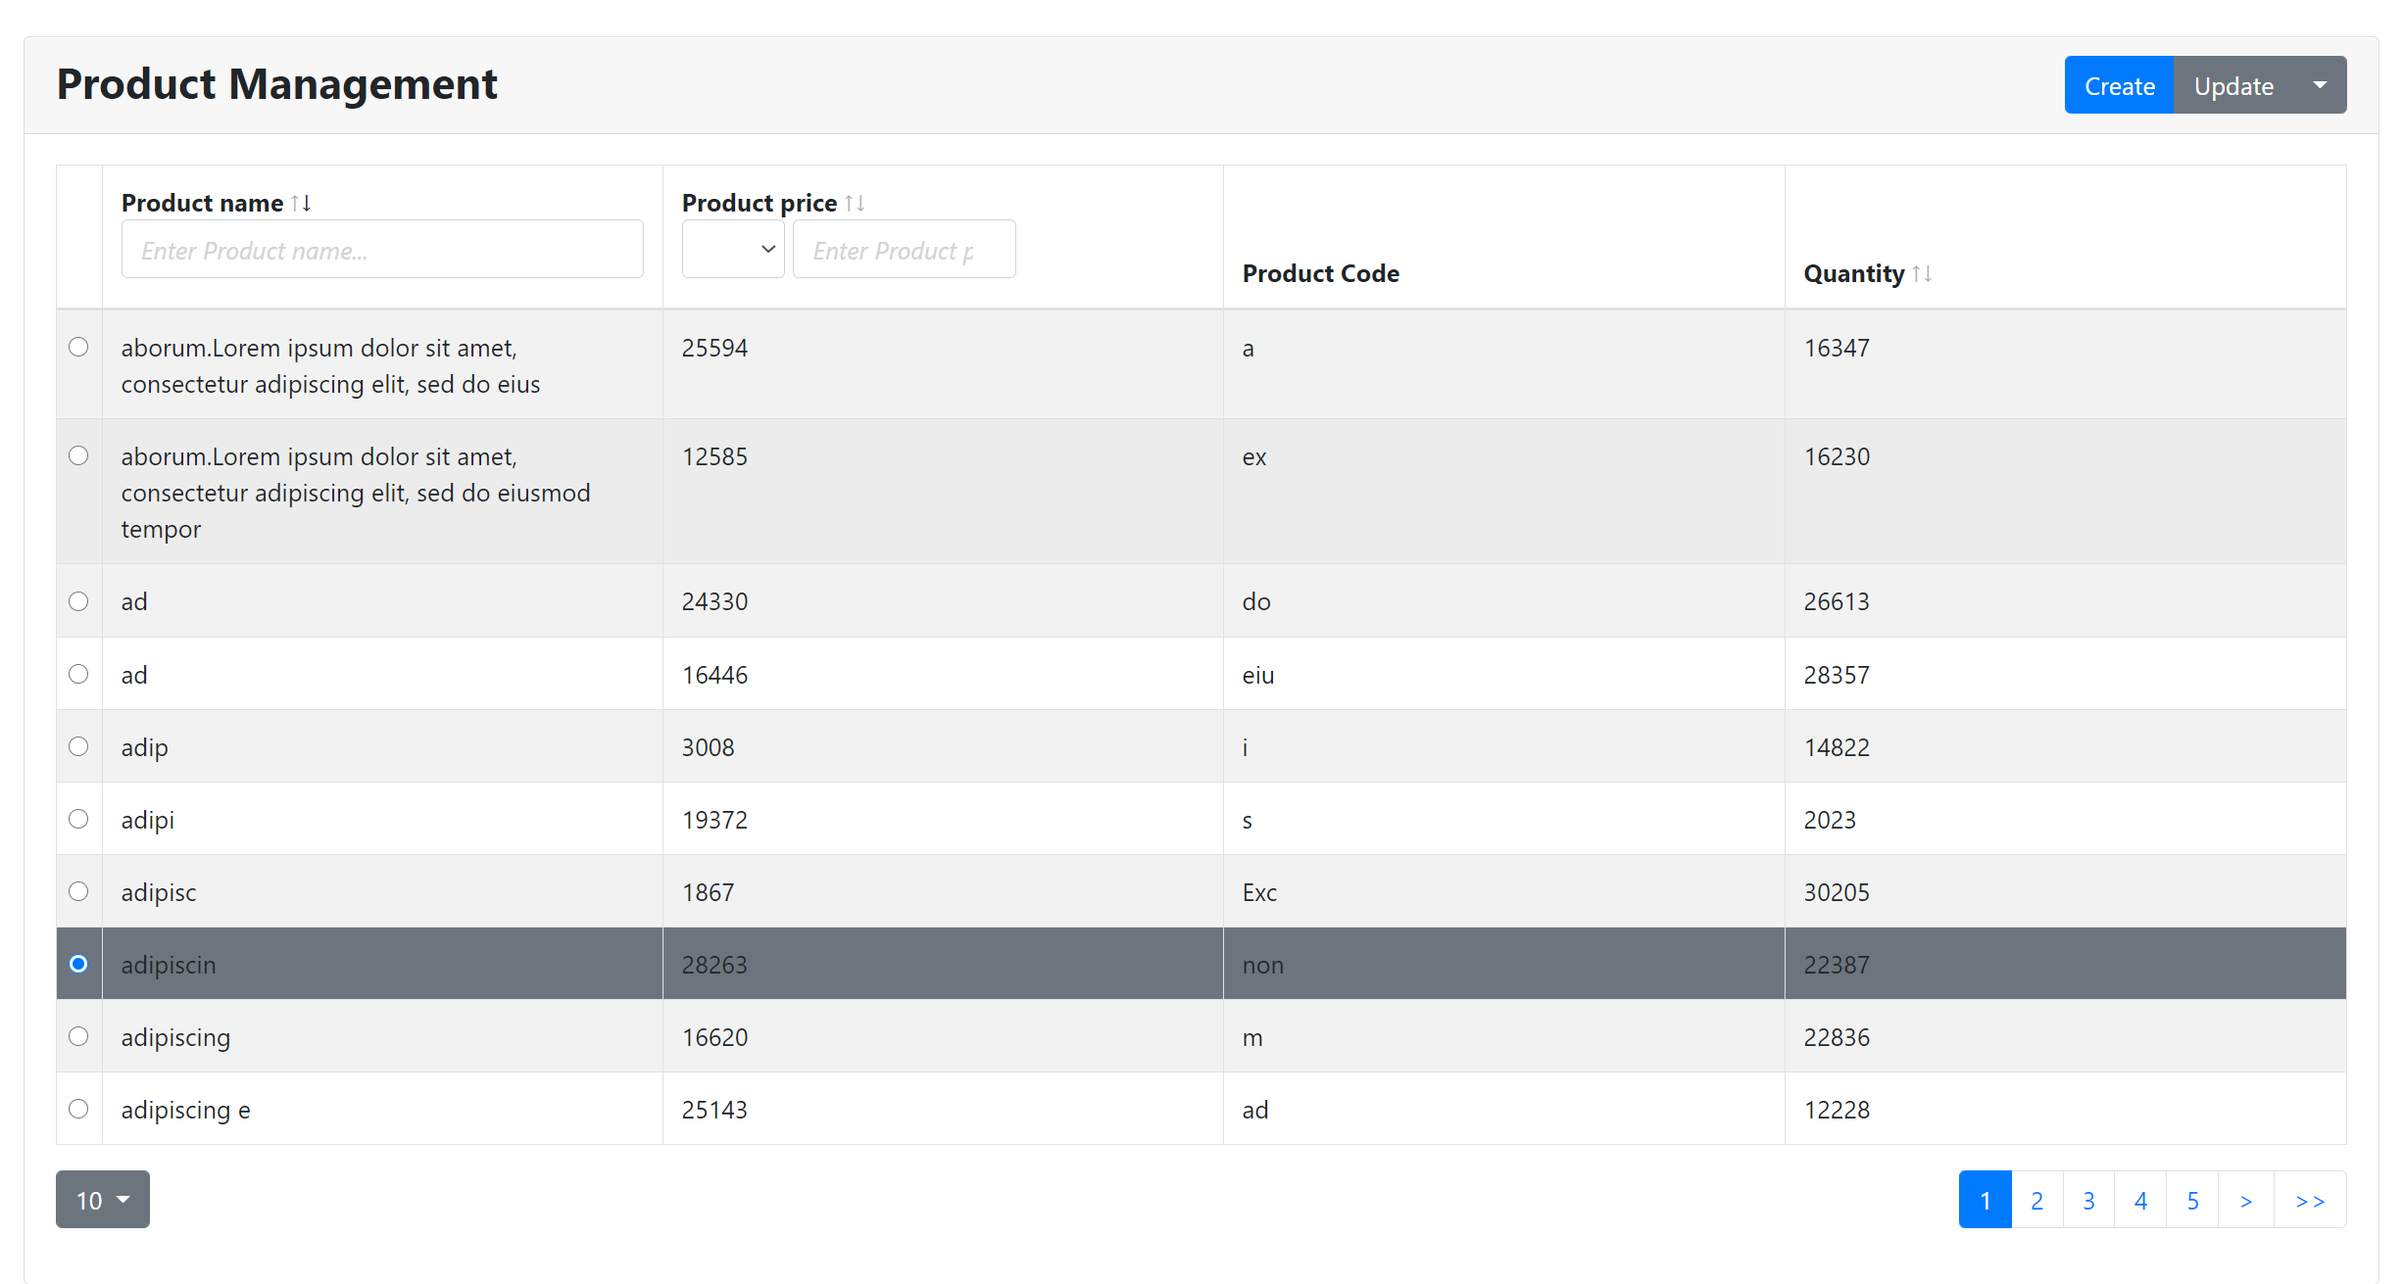
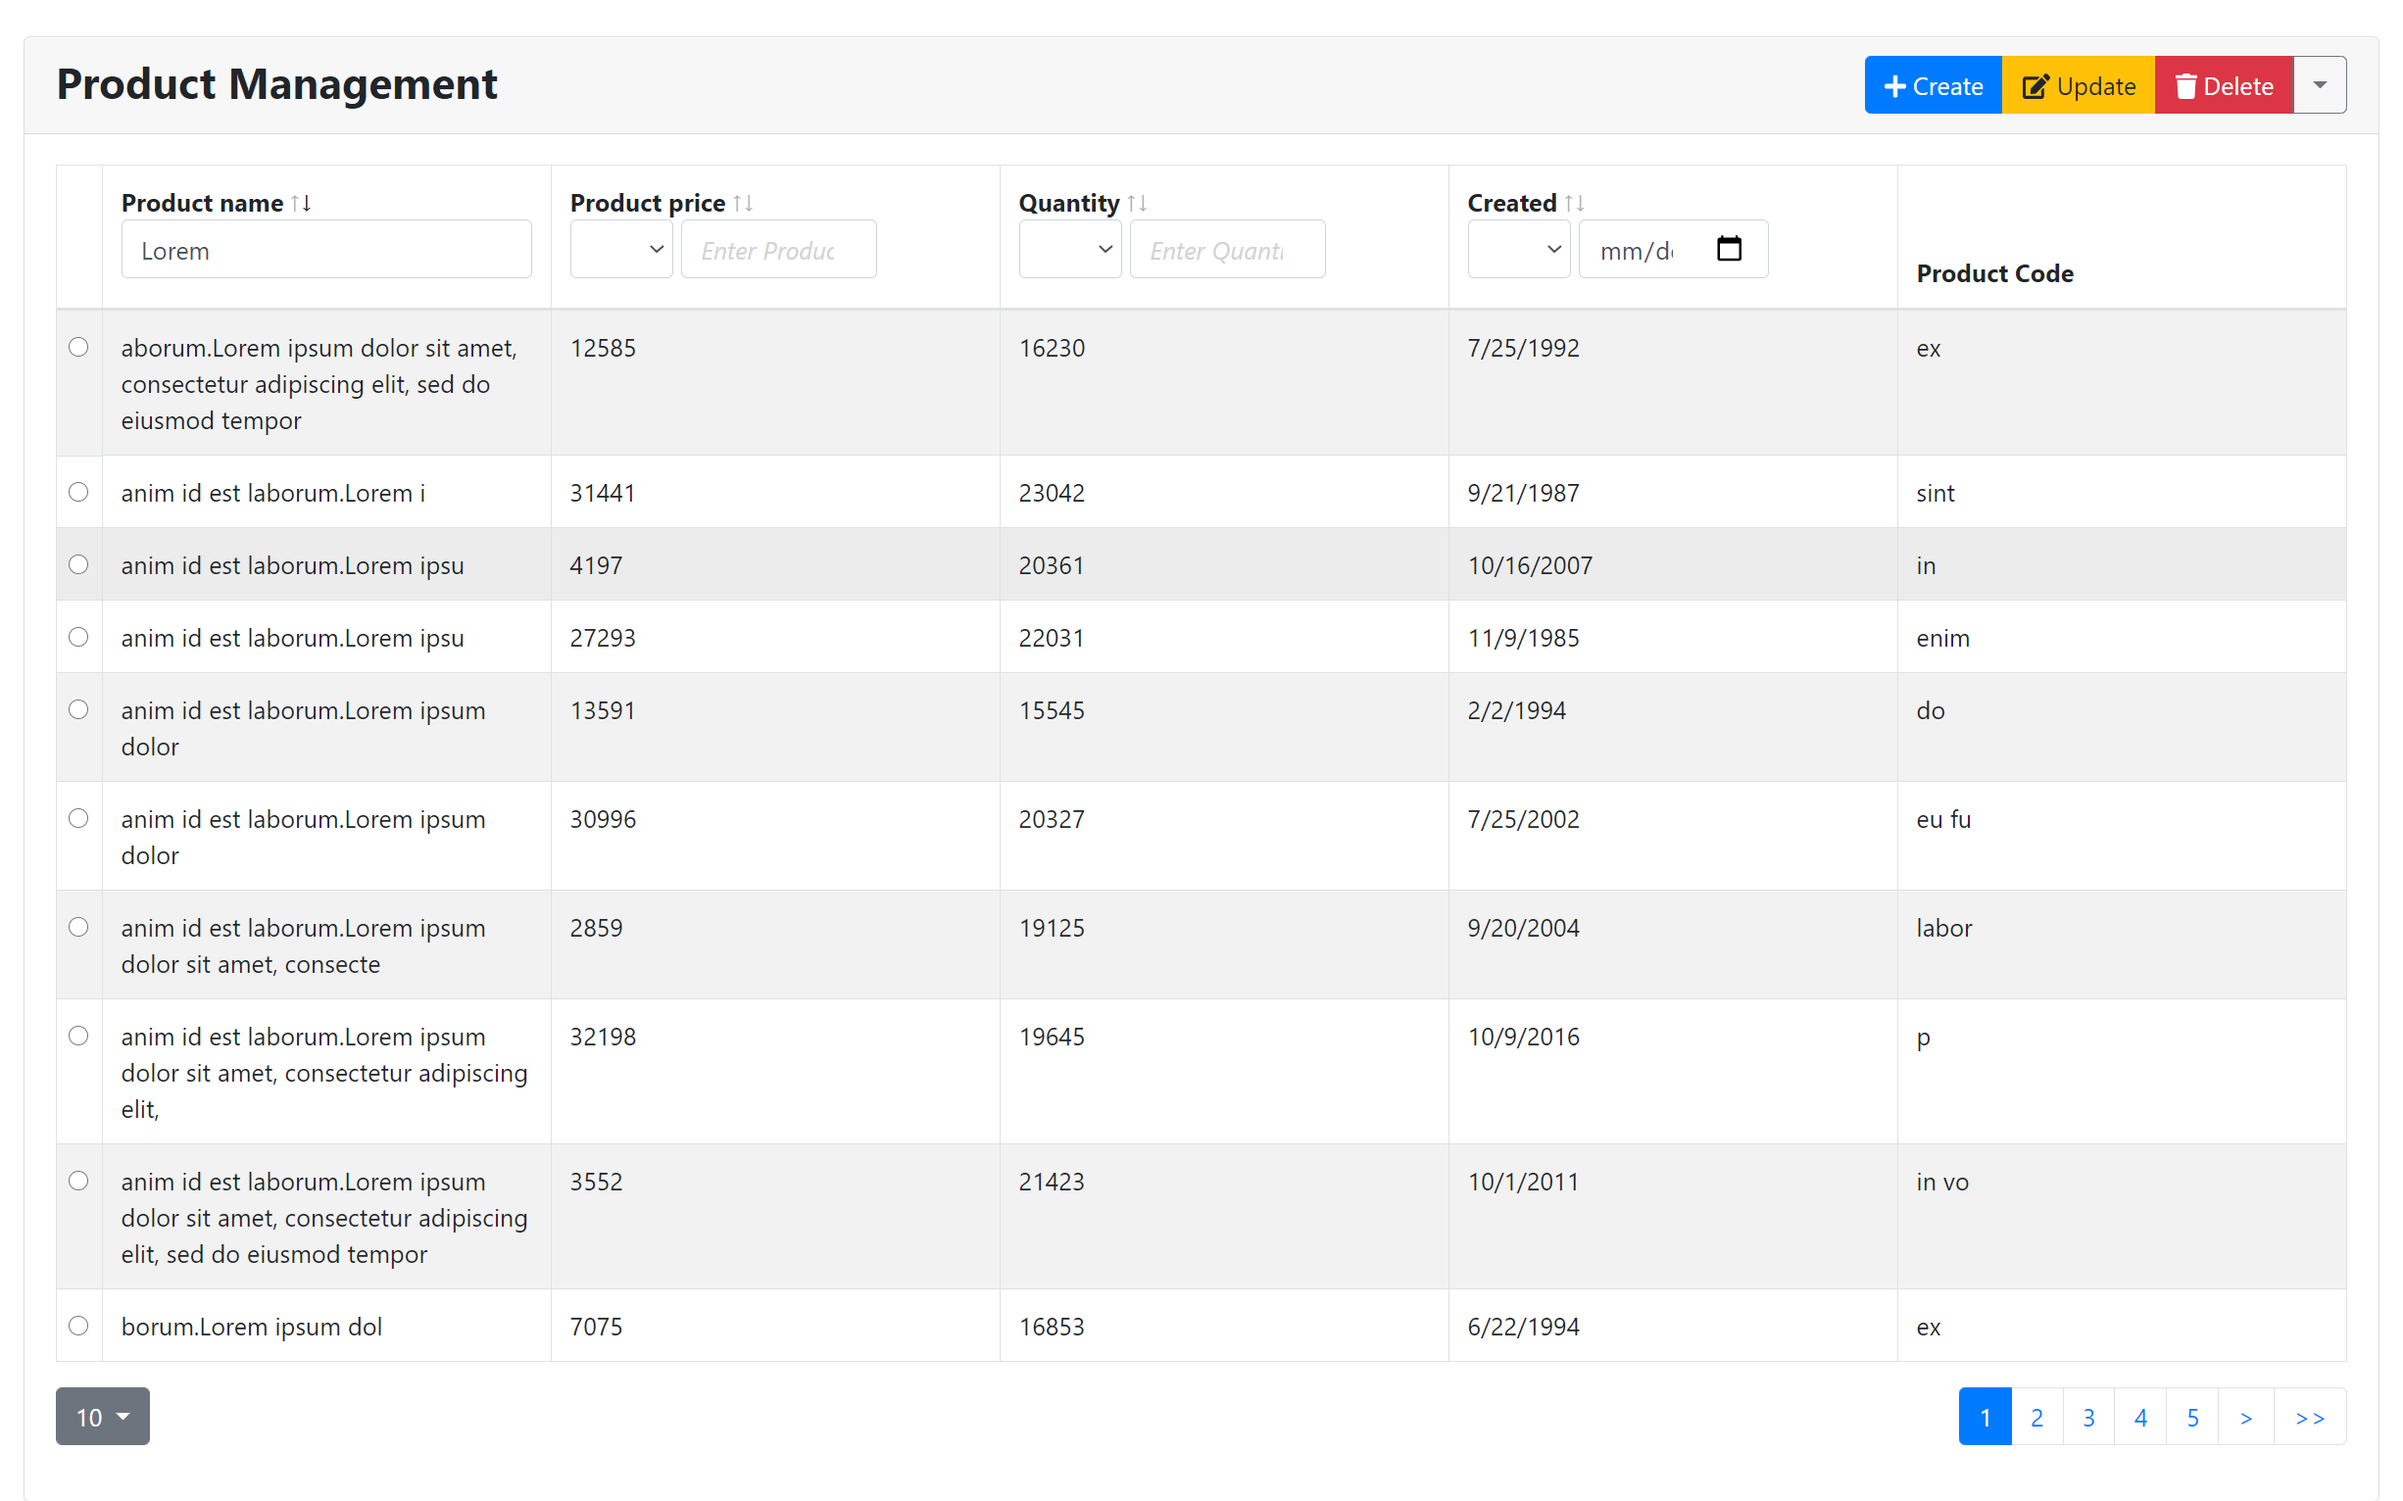
update products grid

diff --git a/src/Web/pages/products.js b/src/Web/pages/products.js
@@ -13,10 +13,17 @@ import paginationFactory from "react-bootstrap-table2-paginator";
 import filterFactory, {
   textFilter,
   numberFilter,
+  dateFilter,
 } from "react-bootstrap-table2-filter";
+
+import { FontAwesomeIcon } from "@fortawesome/react-fontawesome";
+import { faPlus, faEdit, faTrash } from "@fortawesome/free-solid-svg-icons";
 
 import _ from "lodash";
 import axios from "axios";
+import moment from "moment";
+
+const ApiUrl = "http://localhost:5002/api/products";
 
 const Products = (props) => {
   const [page, setPage] = useState(1);
@@ -36,36 +43,54 @@ const Products = (props) => {
         pageSize: sizePerPage,
       };
 
+      var fts = [];
+
       for (const dataField in filters) {
         const { filterVal, filterType, comparator } = filters[dataField];
-
         if (filterType === "TEXT") {
-          queryModel = _.assign(queryModel, {
-            filters: [
-              {
-                fieldName: _.startCase(_.toLower(dataField)),
-                comparision: "Contains",
-                fieldValue: filterVal,
-              },
-            ],
+          fts.push({
+            fieldName: _.startCase(_.toLower(dataField)),
+            comparision: "Contains",
+            fieldValue: filterVal,
           });
+        } else if (filterType === "NUMBER" && filterVal.number != null) {
+          if (!filterVal.comparator == "") {
+            fts.push({
+              fieldName: _.startCase(_.toLower(dataField)),
+              comparision:
+                filterVal.comparator === "=" ? "==" : filterVal.comparator,
+              fieldValue: filterVal.number,
+            });
+          }
+        } else if (filterType === "DATE" && filterVal.date != null) {
+          if (!(filterVal.comparator == "" || filterVal.comparator == null)) {
+            fts.push({
+              fieldName: _.startCase(_.toLower(dataField)),
+              comparision:
+                filterVal.comparator === "=" ? "==" : filterVal.comparator,
+              fieldValue: filterVal.date,
+            });
+          }
         }
       }
 
-      axios
-        .post("http://localhost:5002/api/products", queryModel)
-        .then((response) => {
-          setProducts(response.data.items);
-          setPage(response.data.page);
-          setSizePerPage(response.data.pageSize);
-          setTotalSize(response.data.totalItems);
+      if (fts.length > 0) {
+        queryModel = _.assign(queryModel, {
+          filters: fts,
         });
+      }
+
+      axios.post(ApiUrl, queryModel).then((response) => {
+        setProducts(response.data.items);
+        setPage(response.data.page);
+        setSizePerPage(response.data.pageSize);
+        setTotalSize(response.data.totalItems);
+      });
     },
     []
   );
 
   const rowSelect = (row, isSelect) => {
-    // console.log(row);
     setSelectedProduct(row);
   };
 
@@ -75,6 +100,21 @@ const Products = (props) => {
 
   const handleDelete = () => {
     console.log(selectedProduct);
+  };
+
+  const handleClearFilters = () => {
+    if (nameFilter != undefined || _.isFunction(nameFilter)) {
+      nameFilter("");
+    }
+    if (priceFilter != undefined || _.isFunction(priceFilter)) {
+      priceFilter("");
+    }
+    if (quantityFilter != undefined || _.isFunction(quantityFilter)) {
+      quantityFilter("");
+    }
+    if (createdFilter != undefined || _.isFunction(createdFilter)) {
+      createdFilter();
+    }
   };
 
   const selectRow = {
@@ -93,17 +133,23 @@ const Products = (props) => {
           <Card.Header as="h3">
             <b>Product Management</b>
             <ButtonGroup aria-label="Basic example" className="float-right">
-              <Button variant="primary">Create</Button>
-              <Button variant="secondary" onClick={handleEdit}>
-                Update
+              <Button variant="primary">
+                <FontAwesomeIcon icon={faPlus} /> Create
+              </Button>
+              <Button variant="warning" onClick={handleEdit}>
+                <FontAwesomeIcon icon={faEdit} /> Update
+              </Button>
+              <Button variant="danger" onClick={handleDelete}>
+                <FontAwesomeIcon icon={faTrash} /> Delete
               </Button>
               <DropdownButton
                 as={ButtonGroup}
                 id="bg-nested-dropdown"
-                variant="secondary"
+                variant="outline-secondary"
+                title=""
               >
-                <Dropdown.Item eventKey="1" onClick={handleDelete}>
-                  Delete
+                <Dropdown.Item eventKey="1" onClick={handleClearFilters}>
+                  Clear filters
                 </Dropdown.Item>
                 <Dropdown.Item eventKey="2">Export</Dropdown.Item>
               </DropdownButton>
@@ -125,6 +171,11 @@ const Products = (props) => {
   );
 };
 
+let nameFilter;
+let priceFilter;
+let quantityFilter;
+let createdFilter;
+
 const columns = [
   {
     dataField: "id",
@@ -135,24 +186,48 @@ const columns = [
     dataField: "name",
     text: "Product name",
     filter: textFilter({
-      defaultValue: "",
+      getFilter: (filter) => {
+        nameFilter = filter;
+      },
     }),
     sort: true,
   },
   {
     dataField: "cost",
     text: "Product price",
-    filter: numberFilter(),
+    filter: numberFilter({
+      getFilter: (filter) => {
+        priceFilter = filter;
+      },
+    }),
+    sort: true,
+  },
+  {
+    dataField: "quantity",
+    text: "Quantity",
+    filter: numberFilter({
+      getFilter: (filter) => {
+        quantityFilter = filter;
+      },
+    }),
+    sort: true,
+  },
+  {
+    dataField: "created",
+    text: "Created",
+    formatter: (cell, row) => {
+      return moment(cell).format("l");
+    },
+    filter: dateFilter({
+      getFilter: (filter) => {
+        createdFilter = filter;
+      },
+    }),
     sort: true,
   },
   {
     dataField: "productCodeName",
     text: "Product Code",
-  },
-  {
-    dataField: "quantity",
-    text: "Quantity",
-    sort: true,
   },
 ];
 

diff --git a/src/BuildingBlocks/N8T.Core/Specification/SpecificationBase.cs b/src/BuildingBlocks/N8T.Core/Specification/SpecificationBase.cs
@@ -7,7 +7,6 @@ namespace N8T.Core.Specification
     public abstract class SpecificationBase<T> : ISpecification<T>
     {
         public abstract Expression<Func<T, bool>> Criteria { get; }
-        public virtual List<Expression<Func<T, bool>>> Criterias { get; } = new();
         public List<Expression<Func<T, object>>> Includes { get; } = new();
         public List<string> IncludeStrings { get; } = new();
         public Expression<Func<T, object>> OrderBy { get; private set; }
@@ -47,42 +46,6 @@ namespace N8T.Core.Specification
         protected void ApplySorting(string sort)
         {
             this.ApplySorting(sort, nameof(ApplyOrderBy), nameof(ApplyOrderByDescending));
-
-            /*if (string.IsNullOrEmpty(sort)) return;
-
-            const string descendingSuffix = "Desc";
-
-            var descending = sort.EndsWith(descendingSuffix, StringComparison.Ordinal);
-            var propertyName = sort.Substring(0, 1).ToUpperInvariant() +
-                               sort.Substring(1, sort.Length - 1 - (descending ? descendingSuffix.Length : 0));
-
-            var specificationType = GetType().BaseType;
-            var targetType = specificationType?.GenericTypeArguments[0];
-            var property = targetType!.GetRuntimeProperty(propertyName) ??
-                           throw new InvalidOperationException($"Because the property {propertyName} does not exist it cannot be sorted.");
-
-            var lambdaParamX = Expression.Parameter(targetType, "x");
-
-            var propertyReturningExpression = Expression.Lambda(
-                Expression.Convert(
-                    Expression.Property(lambdaParamX, property),
-                    typeof(object)),
-                lambdaParamX);
-
-            if (descending)
-            {
-                specificationType?.GetMethod(
-                        nameof(ApplyOrderByDescending),
-                        BindingFlags.Instance | BindingFlags.Public | BindingFlags.NonPublic)
-                    ?.Invoke(this, new object[]{propertyReturningExpression});
-            }
-            else
-            {
-                specificationType?.GetMethod(
-                        nameof(ApplyOrderBy),
-                        BindingFlags.Instance | BindingFlags.Public | BindingFlags.NonPublic)
-                    ?.Invoke(this, new object[]{propertyReturningExpression});
-            }*/
         }
     }
 }

diff --git a/src/BuildingBlocks/N8T.Core/Specification/GridSpecificationBase.cs b/src/BuildingBlocks/N8T.Core/Specification/GridSpecificationBase.cs
@@ -46,42 +46,6 @@ namespace N8T.Core.Specification
         protected void ApplySorting(string sort)
         {
             this.ApplySorting(sort, nameof(ApplyOrderBy), nameof(ApplyOrderByDescending));
-
-            /*if (string.IsNullOrEmpty(sort)) return;
-
-            const string descendingSuffix = "Desc";
-
-            var descending = sort.EndsWith(descendingSuffix, StringComparison.Ordinal);
-            var propertyName = sort.Substring(0, 1).ToUpperInvariant() +
-                               sort.Substring(1, sort.Length - 1 - (descending ? descendingSuffix.Length : 0));
-
-            var specificationType = GetType().BaseType;
-            var targetType = specificationType?.GenericTypeArguments[0];
-            var property = targetType!.GetRuntimeProperty(propertyName) ??
-                           throw new InvalidOperationException($"Because the property {propertyName} does not exist it cannot be sorted.");
-
-            var lambdaParamX = Expression.Parameter(targetType, "x");
-
-            var propertyReturningExpression = Expression.Lambda(
-                Expression.Convert(
-                    Expression.Property(lambdaParamX, property),
-                    typeof(object)),
-                lambdaParamX);
-
-            if (descending)
-            {
-                specificationType?.GetMethod(
-                        nameof(ApplyOrderByDescending),
-                        BindingFlags.Instance | BindingFlags.Public | BindingFlags.NonPublic)
-                    ?.Invoke(this, new object[]{propertyReturningExpression});
-            }
-            else
-            {
-                specificationType?.GetMethod(
-                        nameof(ApplyOrderBy),
-                        BindingFlags.Instance | BindingFlags.Public | BindingFlags.NonPublic)
-                    ?.Invoke(this, new object[]{propertyReturningExpression});
-            }*/
         }
     }
 }

diff --git a/README.md b/README.md
@@ -16,7 +16,13 @@ The practical repository uses coolstore domain which is mainly borrowed from `ht
 
 # Testing Application
 
-Starting the web application
+- Starting the Api
+
+```
+$ tye run
+```
+
+- Starting the web application
 
 ```
 $ cd src\Web
@@ -24,16 +30,7 @@ $ npm i
 $ npm run dev
 ```
 
-Starting the Api
-
-```
-$ tye run
-```
-
-```
-$ cd src\Product\ProductService.Api\
-$ dotnet run
-```
+- Public Apis:
 
 > Frontend: [http://localhost:3000/products](http://localhost:3000/products)
 > 
